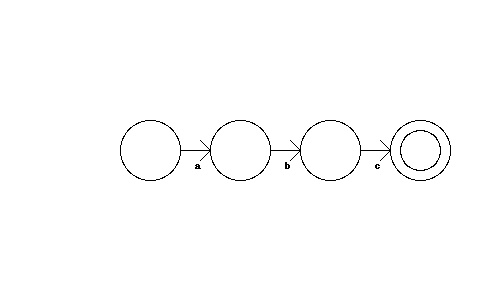
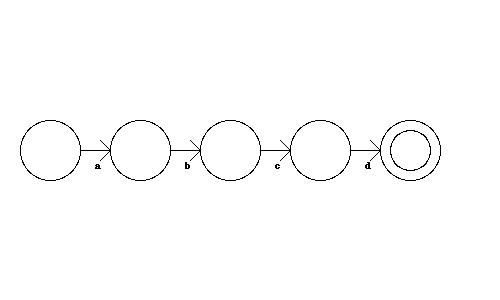
add mergeOR nfa function

diff --git a/nfa.py b/nfa.py
@@ -1,36 +1,95 @@
 ## definiton of nfa
+from collections import defaultdict
 
 EPSILON = "epsilon"
 
-from collections import defaultdict
+class NFAManager():
+
+    def __init__(self):
+        pass
+
+    def mergeOR(self, nfa_list):
+        redefine_nfa_list = [nfa_obj.redefine_states(str(i)) for i, nfa_obj in enumerate(nfa_list)]
+
+        nfa_obj = NFA().acceptState(0).accept(1).append(redefine_nfa_list)
+
+        for subnfa in redefine_nfa_list:
+            nfa_obj.addTransitions(nfa_obj.start, EPSILON, subnfa.start)
+            nfa_obj.addTransitions(nfa_obj.accept, EPSILON, subnfa.accept)
+
+        return nfa_obj
+
+    def mergeSTAR(self):
+        pass
+
+    def mergeConcatenation(self):
+        pass
+
+
+
 # how to generate code according to NFA definition??? there should be some algorithms
 class NFA():
     def __init__(self):
         self.start = None
         self.accept = None
+        ## (state, symbol)->list of states
         self.transitions = defaultdict(list)
-        self.states = None
+        self.states = set([])
 
-        ## record each state's outing symbol
+        ## state->list of symbols reaching out
         self.state_out = defaultdict(list)
 
-    def initStates(self, len):
-        states_list = [i for i in range(len)]
 
-        self.states = set(states_list)
+    def append(self, nfa_list):
+        for nfa in nfa_list:
+            self.__append_single(nfa)
+
         return self
 
+    def __append_single(self, nfa):
+        self.transitions.update(nfa.transitions)
+        self.state_out.update(nfa.state_out)
+        self.states.update(nfa.states)
+
+        return self
+
+
+    def gen_new_state(self, c , state):
+        return c + state
+
+    def redefine_states(self, c):
+        nfa_obj = NFA().startState(self.gen_new_state(c, self.startState())).acceptState(self.gen_new_state(c, self.accept))
+
+        for key,state_list in self.transitions.items():
+            state, symbol = key[0], key[1]
+            new_state = self.gen_new_state(c, state)
+            for s in state_list:
+                new_s = self.gen_new_state(c, s)
+                nfa_obj.addTransitions(new_state, symbol, new_s)
+
+        return nfa_obj
+
     def startState(self, start):
+        if isinstance(start, int):
+            start = str(start)
+
         self.start = start
+        self.states.add(start)
         return self
 
     def acceptState(self, accept):
+        if isinstance(accept, int):
+            accept = str(accept)
         self.accept = accept
+        self.states.add(accept)
 
         return self
 
     ## q1 accepting s , go to q2
     def addTransitions(self, q1, s, q2):
+        self.states.add(q1)
+        self.states.add(q2)
+
         self.state_out[q1].append(s)
 
         self.transitions[(q1, s)].append(q2)

diff --git a/drawer.py b/drawer.py
@@ -2,9 +2,11 @@
 from PIL import Image, ImageDraw
 
 from nfa import  NFA
-## todo make  sequence NFA perfect
-## todo how to automatically deploy the picture
-## todo how to merge NFA
+
+## todo how to automatically postion the NFA, right now,  the key lies  in draw
+
+## todo how to star???
+
 class NFADrawer():
     def __init__(self):
         #by default now
@@ -13,7 +15,7 @@ class NFADrawer():
     def drawNFA(self, nfa_obj):
         im = Image.new('RGB', (500, 300), (255, 255, 255))
         draw = ImageDraw.Draw(im)
-        x0, y0 = 150, 150
+        x0, y0 = 50, 150
 
         self.__draw_recursive(nfa_obj, nfa_obj.start, draw, x0, y0)
         im.save('./pillow_imagedraw.jpg', quality=95)

diff --git a/parser_second.py b/parser_second.py
@@ -18,7 +18,7 @@ class SequenceAST():
     def get_nfa(self):
         token_len = len(self.token)
 
-        nfa_object = NFA().startState(0).acceptState(token_len - 1).initStates(token_len)
+        nfa_object = NFA().startState(0).acceptState(token_len - 1)
 
         for i in range(token_len):
             if i != token_len - 1:

diff --git a/drawer_test.py b/drawer_test.py
@@ -7,7 +7,7 @@ from  nfa import  NFA
 from  drawer import  NFADrawer
 class MyTestCase(unittest.TestCase):
     def test_draw(self):
-        seq = SequenceAST("abcd")
+        seq = SequenceAST("abcde")
         nfa_obj = seq.get_nfa()
 
         nfaDrawer = NFADrawer()
